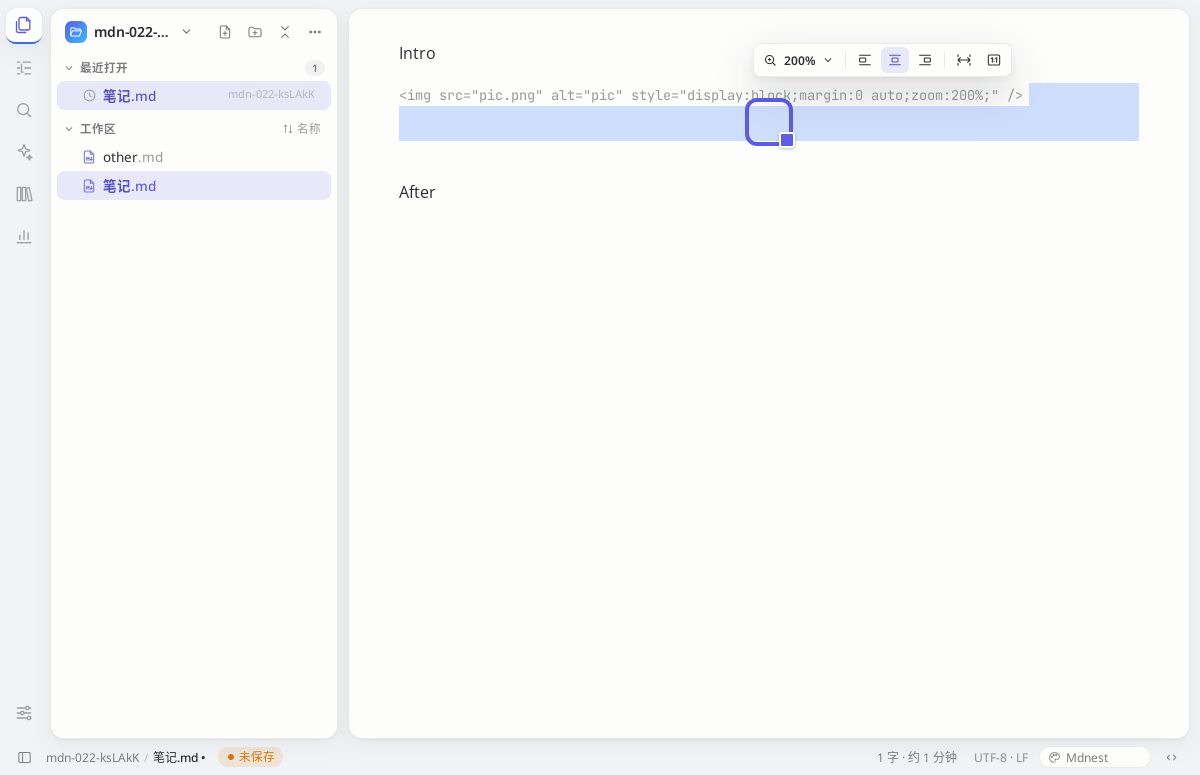
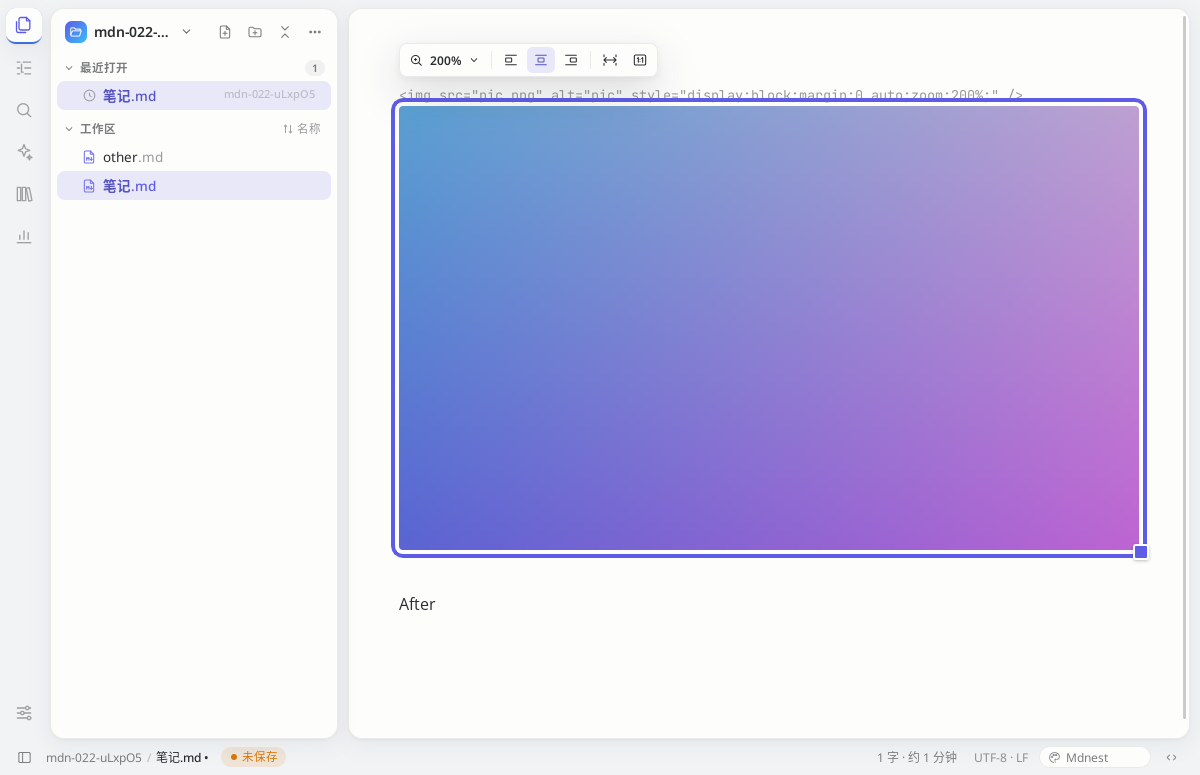
WebKitGTK: no full-width selection band behind a selected image; native-022 uses a real-size test picture

diff --git a/src/styles/blocks.css b/src/styles/blocks.css
@@ -88,3 +88,6 @@ body.typora-sourceview-on .mdn-imgbar, body.typora-sourceview-on .mdn-img-resize
 #write span.md-image.ProseMirror-selectednode { outline: none; }
 #write span.md-image.ProseMirror-selectednode img { outline: 2px solid var(--sh-accent, var(--primary-color, #4a7bd0)); outline-offset: 2px; border-radius: 2px; }
 #write .md-image-src-span { max-width: 100%; overflow: hidden; text-overflow: ellipsis; white-space: nowrap; vertical-align: bottom; }
+/* WebKitGTK paints the DOM selection PM keeps around a selected inline image as a full-width band */
+#write .md-image.ProseMirror-selectednode::selection, #write .md-image.ProseMirror-selectednode *::selection,
+#write p:has(.md-image.ProseMirror-selectednode)::selection, #write p:has(.md-image.ProseMirror-selectednode) *::selection { background: transparent; }
